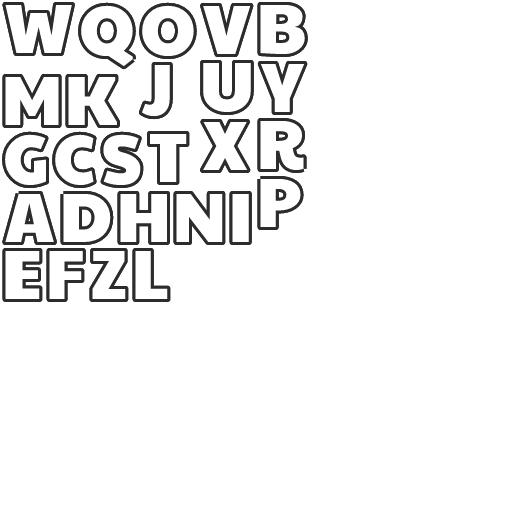
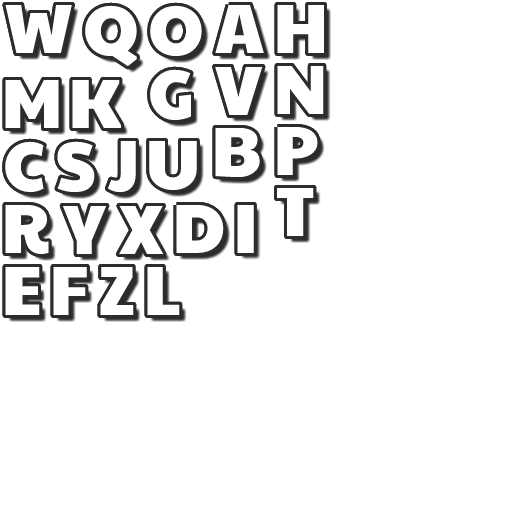
added shadow to font and randomised the colours

Changed region(s): [[0.0, 0.0, 0.6562, 0.6562]]

diff --git a/core/src/com/tatum/states/Menu.java b/core/src/com/tatum/states/Menu.java
@@ -74,7 +74,7 @@ public class Menu extends GameState {
     private float titleXPos;
     private boolean increasing = true;
     private boolean jumpy = true;
-    private int[] colVals = {255, 0, 0}; //array of colours used
+    private int[] colVals = {makeRand(), makeRand(), makeRand()}; //array of colours used
     private int modCol = 1; //currently incremented colour
     private boolean incCol = true; //increment or decrement colour value
 
@@ -246,6 +246,11 @@ public class Menu extends GameState {
         loadingText =  new MusicItem(sb, fontGenerator.makeFont(70, fontGenerator.yellow),"Loading",cam,91,148);
         generatingText = new MusicItem(sb, fontGenerator.makeFont(70, fontGenerator.green),"Generating",cam,67,148);
         // create loading messages
+    }
+
+    private static int makeRand(){
+        Random rand = new Random();
+        return rand.nextInt(254)+1;
     }
 
     @Override
